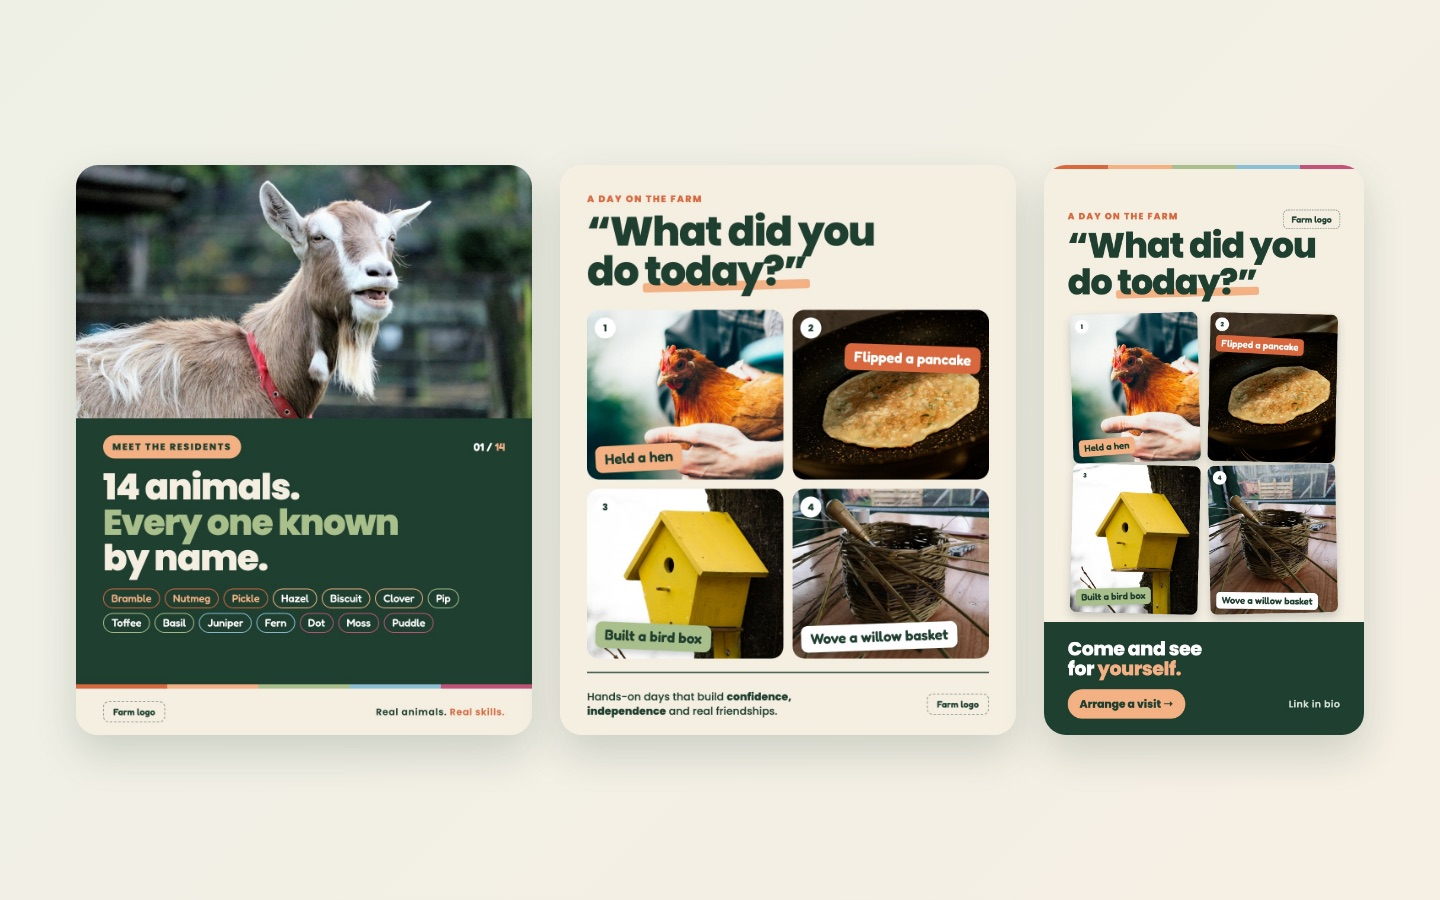
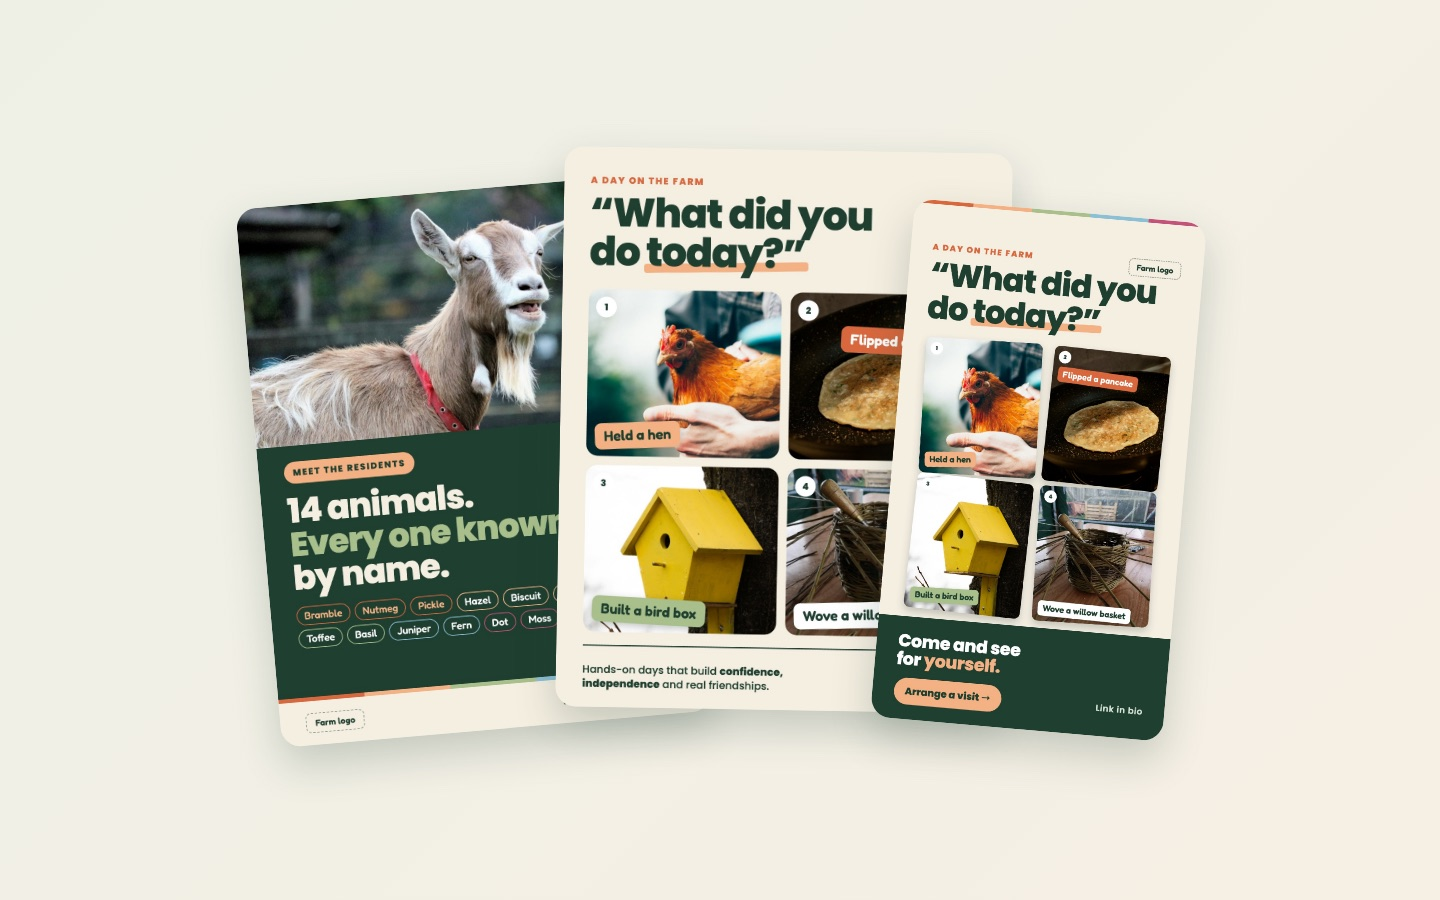
Rehace la tarjeta de la granja en la portada para que se vean los dos posts y el reel

diff --git a/index.html b/index.html
@@ -114,7 +114,7 @@
         </li>
         <li class="project">
           <div class="project-shot">
-            <img src="images/carefarm-card.jpg" alt="Two social media posts and a reel for a care farm: a goat with the names of 14 animals, and four photos answering What did you do today?" width="1440" height="900" loading="lazy">
+            <img src="images/carefarm-card.jpg" style="object-position:center" alt="Two social media posts and a reel for a care farm: a goat with the names of 14 animals, and four photos answering What did you do today?" width="1440" height="900" loading="lazy">
           </div>
           <div class="project-body">
             <span class="status">Creative task</span>
